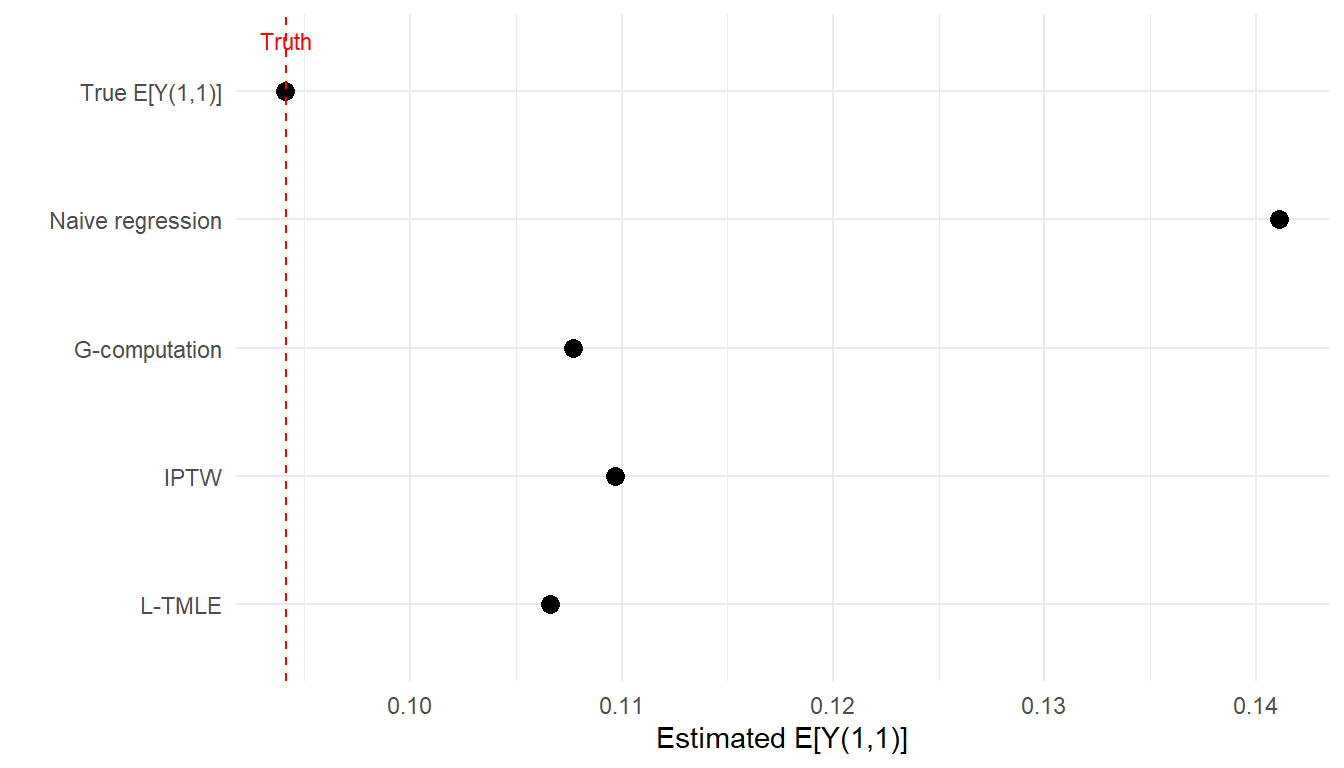
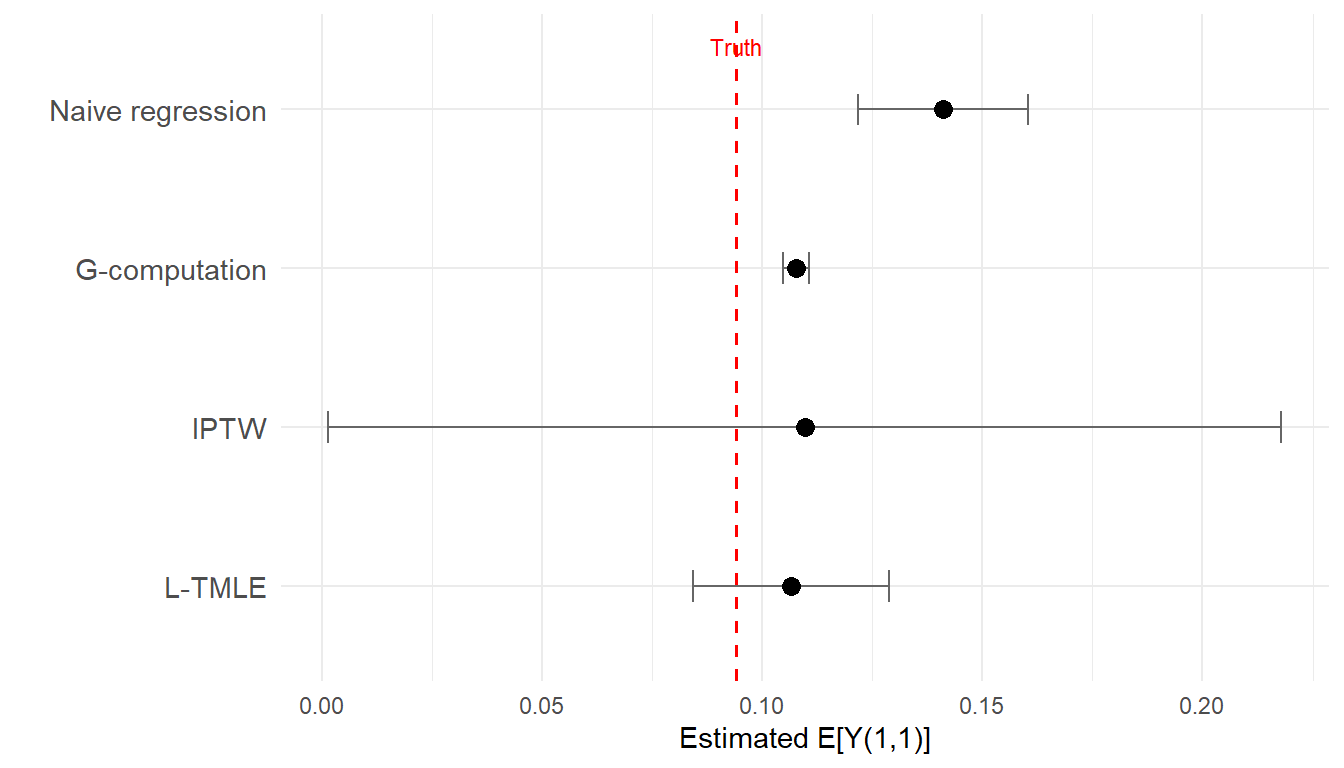
Add 95% CIs to L-TMLE estimator comparison figure

diff --git a/docs/03-09b-ltmle-by-hand.html b/docs/03-09b-ltmle-by-hand.html
@@ -656,28 +656,63 @@ H_2 = \frac{I(A_1 = 1, A_2 = 1)}{\hat{g}_1(W) \times \hat{g}_2(1, L_1, W)}
 <span id="cb9-4"><a href="#cb9-4" aria-hidden="true" tabindex="-1"></a>iptw_w <span class="ot">&lt;-</span> <span class="fu">ifelse</span>(dat<span class="sc">$</span>A1 <span class="sc">==</span> <span class="dv">1</span> <span class="sc">&amp;</span> dat<span class="sc">$</span>A2 <span class="sc">==</span> <span class="dv">1</span>, <span class="dv">1</span> <span class="sc">/</span> (g1_hat <span class="sc">*</span> g2_hat), <span class="dv">0</span>)</span>
 <span id="cb9-5"><a href="#cb9-5" aria-hidden="true" tabindex="-1"></a>iptw_est <span class="ot">&lt;-</span> <span class="fu">sum</span>(iptw_w <span class="sc">*</span> dat<span class="sc">$</span>Y) <span class="sc">/</span> <span class="fu">sum</span>(iptw_w)</span>
 <span id="cb9-6"><a href="#cb9-6" aria-hidden="true" tabindex="-1"></a></span>
-<span id="cb9-7"><a href="#cb9-7" aria-hidden="true" tabindex="-1"></a>comparison <span class="ot">&lt;-</span> <span class="fu">tibble</span>(</span>
-<span id="cb9-8"><a href="#cb9-8" aria-hidden="true" tabindex="-1"></a>  <span class="at">Method =</span> <span class="fu">c</span>(<span class="st">"True E[Y(1,1)]"</span>, <span class="st">"Naive regression"</span>, <span class="st">"G-computation"</span>, <span class="st">"IPTW"</span>, <span class="st">"L-TMLE"</span>),</span>
-<span id="cb9-9"><a href="#cb9-9" aria-hidden="true" tabindex="-1"></a>  <span class="at">Estimate =</span> <span class="fu">round</span>(<span class="fu">c</span>(true_EY_11, naive_pred_11, <span class="fu">mean</span>(Q1_A1is1), iptw_est, ltmle_est_11), <span class="dv">4</span>)</span>
-<span id="cb9-10"><a href="#cb9-10" aria-hidden="true" tabindex="-1"></a>)</span>
-<span id="cb9-11"><a href="#cb9-11" aria-hidden="true" tabindex="-1"></a>comparison <span class="sc">|&gt;</span> <span class="fu">as.data.frame</span>()</span>
-<span id="cb9-12"><a href="#cb9-12" aria-hidden="true" tabindex="-1"></a><span class="co">#&gt;             Method Estimate</span></span>
-<span id="cb9-13"><a href="#cb9-13" aria-hidden="true" tabindex="-1"></a><span class="co">#&gt; 1   True E[Y(1,1)]   0.0941</span></span>
-<span id="cb9-14"><a href="#cb9-14" aria-hidden="true" tabindex="-1"></a><span class="co">#&gt; 2 Naive regression   0.1411</span></span>
-<span id="cb9-15"><a href="#cb9-15" aria-hidden="true" tabindex="-1"></a><span class="co">#&gt; 3    G-computation   0.1077</span></span>
-<span id="cb9-16"><a href="#cb9-16" aria-hidden="true" tabindex="-1"></a><span class="co">#&gt; 4             IPTW   0.1097</span></span>
-<span id="cb9-17"><a href="#cb9-17" aria-hidden="true" tabindex="-1"></a><span class="co">#&gt; 5           L-TMLE   0.1066</span></span></code><button title="Copy to Clipboard" class="code-copy-button"><i class="bi"></i></button></pre></div>
+<span id="cb9-7"><a href="#cb9-7" aria-hidden="true" tabindex="-1"></a><span class="co"># --- Confidence intervals via influence curves ---</span></span>
+<span id="cb9-8"><a href="#cb9-8" aria-hidden="true" tabindex="-1"></a></span>
+<span id="cb9-9"><a href="#cb9-9" aria-hidden="true" tabindex="-1"></a><span class="co"># Naive regression CI (influence curve for standardized mean)</span></span>
+<span id="cb9-10"><a href="#cb9-10" aria-hidden="true" tabindex="-1"></a>naive_p1 <span class="ot">&lt;-</span> <span class="fu">predict</span>(naive_mod, <span class="at">newdata =</span> dat <span class="sc">%&gt;%</span> <span class="fu">mutate</span>(<span class="at">A1 =</span> <span class="dv">1</span>, <span class="at">A2 =</span> <span class="dv">1</span>), <span class="at">type =</span> <span class="st">"response"</span>)</span>
+<span id="cb9-11"><a href="#cb9-11" aria-hidden="true" tabindex="-1"></a>naive_resid <span class="ot">&lt;-</span> dat<span class="sc">$</span>Y <span class="sc">-</span> <span class="fu">predict</span>(naive_mod, <span class="at">type =</span> <span class="st">"response"</span>)</span>
+<span id="cb9-12"><a href="#cb9-12" aria-hidden="true" tabindex="-1"></a>naive_H <span class="ot">&lt;-</span> <span class="fu">ifelse</span>(dat<span class="sc">$</span>A1 <span class="sc">==</span> <span class="dv">1</span> <span class="sc">&amp;</span> dat<span class="sc">$</span>A2 <span class="sc">==</span> <span class="dv">1</span>, <span class="dv">1</span>, <span class="dv">0</span>)</span>
+<span id="cb9-13"><a href="#cb9-13" aria-hidden="true" tabindex="-1"></a>naive_ic <span class="ot">&lt;-</span> naive_p1 <span class="sc">-</span> naive_pred_11 <span class="sc">+</span> naive_H <span class="sc">*</span> naive_resid <span class="sc">/</span> <span class="fu">mean</span>(naive_H)</span>
+<span id="cb9-14"><a href="#cb9-14" aria-hidden="true" tabindex="-1"></a>naive_se <span class="ot">&lt;-</span> <span class="fu">sd</span>(naive_ic) <span class="sc">/</span> <span class="fu">sqrt</span>(n)</span>
+<span id="cb9-15"><a href="#cb9-15" aria-hidden="true" tabindex="-1"></a></span>
+<span id="cb9-16"><a href="#cb9-16" aria-hidden="true" tabindex="-1"></a><span class="co"># G-computation CI (use the TMLE-style IC with Q1 model)</span></span>
+<span id="cb9-17"><a href="#cb9-17" aria-hidden="true" tabindex="-1"></a>gcomp_resid <span class="ot">&lt;-</span> Q2_A2is1 <span class="sc">-</span> <span class="fu">predict</span>(Q1_mod, <span class="at">type =</span> <span class="st">"response"</span>)</span>
+<span id="cb9-18"><a href="#cb9-18" aria-hidden="true" tabindex="-1"></a>gcomp_ic <span class="ot">&lt;-</span> Q1_A1is1 <span class="sc">-</span> <span class="fu">mean</span>(Q1_A1is1) <span class="sc">+</span> <span class="fu">ifelse</span>(dat<span class="sc">$</span>A1 <span class="sc">==</span> <span class="dv">1</span>, <span class="dv">1</span>, <span class="dv">0</span>) <span class="sc">*</span> gcomp_resid <span class="sc">/</span> <span class="fu">mean</span>(dat<span class="sc">$</span>A1 <span class="sc">==</span> <span class="dv">1</span>)</span>
+<span id="cb9-19"><a href="#cb9-19" aria-hidden="true" tabindex="-1"></a>gcomp_se <span class="ot">&lt;-</span> <span class="fu">sd</span>(gcomp_ic) <span class="sc">/</span> <span class="fu">sqrt</span>(n)</span>
+<span id="cb9-20"><a href="#cb9-20" aria-hidden="true" tabindex="-1"></a></span>
+<span id="cb9-21"><a href="#cb9-21" aria-hidden="true" tabindex="-1"></a><span class="co"># IPTW CI</span></span>
+<span id="cb9-22"><a href="#cb9-22" aria-hidden="true" tabindex="-1"></a>iptw_num <span class="ot">&lt;-</span> iptw_w <span class="sc">*</span> dat<span class="sc">$</span>Y</span>
+<span id="cb9-23"><a href="#cb9-23" aria-hidden="true" tabindex="-1"></a>iptw_den <span class="ot">&lt;-</span> <span class="fu">sum</span>(iptw_w)</span>
+<span id="cb9-24"><a href="#cb9-24" aria-hidden="true" tabindex="-1"></a>iptw_ic <span class="ot">&lt;-</span> (iptw_num <span class="sc">-</span> iptw_est <span class="sc">*</span> iptw_w) <span class="sc">/</span> <span class="fu">mean</span>(iptw_w <span class="sc">&gt;</span> <span class="dv">0</span>)</span>
+<span id="cb9-25"><a href="#cb9-25" aria-hidden="true" tabindex="-1"></a>iptw_se <span class="ot">&lt;-</span> <span class="fu">sd</span>(iptw_ic[iptw_w <span class="sc">&gt;</span> <span class="dv">0</span>]) <span class="sc">/</span> <span class="fu">sqrt</span>(<span class="fu">sum</span>(iptw_w <span class="sc">&gt;</span> <span class="dv">0</span>))</span>
+<span id="cb9-26"><a href="#cb9-26" aria-hidden="true" tabindex="-1"></a></span>
+<span id="cb9-27"><a href="#cb9-27" aria-hidden="true" tabindex="-1"></a><span class="co"># L-TMLE CI (from efficient influence curve)</span></span>
+<span id="cb9-28"><a href="#cb9-28" aria-hidden="true" tabindex="-1"></a>Qstar_obs <span class="ot">&lt;-</span> <span class="fu">ifelse</span>(dat<span class="sc">$</span>A1 <span class="sc">==</span> <span class="dv">1</span>, Q1_star, Q1_star)  <span class="co"># at observed A</span></span>
+<span id="cb9-29"><a href="#cb9-29" aria-hidden="true" tabindex="-1"></a>H_obs_ltmle <span class="ot">&lt;-</span> <span class="fu">ifelse</span>(dat<span class="sc">$</span>A1 <span class="sc">==</span> <span class="dv">1</span> <span class="sc">&amp;</span> dat<span class="sc">$</span>A2 <span class="sc">==</span> <span class="dv">1</span>,</span>
+<span id="cb9-30"><a href="#cb9-30" aria-hidden="true" tabindex="-1"></a>                       <span class="dv">1</span> <span class="sc">/</span> (g1_hat <span class="sc">*</span> g2_under_a1), <span class="dv">0</span>)</span>
+<span id="cb9-31"><a href="#cb9-31" aria-hidden="true" tabindex="-1"></a>ltmle_ic <span class="ot">&lt;-</span> H_obs_ltmle <span class="sc">*</span> (dat<span class="sc">$</span>Y <span class="sc">-</span> <span class="fu">predict</span>(Q2_mod, <span class="at">type =</span> <span class="st">"response"</span>)) <span class="sc">+</span></span>
+<span id="cb9-32"><a href="#cb9-32" aria-hidden="true" tabindex="-1"></a>            Q1_star <span class="sc">-</span> ltmle_est_11</span>
+<span id="cb9-33"><a href="#cb9-33" aria-hidden="true" tabindex="-1"></a>ltmle_se <span class="ot">&lt;-</span> <span class="fu">sd</span>(ltmle_ic) <span class="sc">/</span> <span class="fu">sqrt</span>(n)</span>
+<span id="cb9-34"><a href="#cb9-34" aria-hidden="true" tabindex="-1"></a></span>
+<span id="cb9-35"><a href="#cb9-35" aria-hidden="true" tabindex="-1"></a>comparison <span class="ot">&lt;-</span> <span class="fu">tibble</span>(</span>
+<span id="cb9-36"><a href="#cb9-36" aria-hidden="true" tabindex="-1"></a>  <span class="at">Method =</span> <span class="fu">c</span>(<span class="st">"True E[Y(1,1)]"</span>, <span class="st">"Naive regression"</span>, <span class="st">"G-computation"</span>, <span class="st">"IPTW"</span>, <span class="st">"L-TMLE"</span>),</span>
+<span id="cb9-37"><a href="#cb9-37" aria-hidden="true" tabindex="-1"></a>  <span class="at">Estimate =</span> <span class="fu">c</span>(true_EY_11, naive_pred_11, <span class="fu">mean</span>(Q1_A1is1), iptw_est, ltmle_est_11),</span>
+<span id="cb9-38"><a href="#cb9-38" aria-hidden="true" tabindex="-1"></a>  <span class="at">SE =</span> <span class="fu">c</span>(<span class="cn">NA</span>, naive_se, gcomp_se, iptw_se, ltmle_se),</span>
+<span id="cb9-39"><a href="#cb9-39" aria-hidden="true" tabindex="-1"></a>  <span class="at">Lower =</span> Estimate <span class="sc">-</span> <span class="fl">1.96</span> <span class="sc">*</span> SE,</span>
+<span id="cb9-40"><a href="#cb9-40" aria-hidden="true" tabindex="-1"></a>  <span class="at">Upper =</span> Estimate <span class="sc">+</span> <span class="fl">1.96</span> <span class="sc">*</span> SE</span>
+<span id="cb9-41"><a href="#cb9-41" aria-hidden="true" tabindex="-1"></a>)</span>
+<span id="cb9-42"><a href="#cb9-42" aria-hidden="true" tabindex="-1"></a>comparison <span class="sc">|&gt;</span> <span class="fu">mutate</span>(<span class="fu">across</span>(<span class="fu">where</span>(is.numeric), <span class="sc">~</span> <span class="fu">round</span>(.x, <span class="dv">4</span>))) <span class="sc">|&gt;</span> <span class="fu">as.data.frame</span>()</span>
+<span id="cb9-43"><a href="#cb9-43" aria-hidden="true" tabindex="-1"></a><span class="co">#&gt;             Method Estimate     SE  Lower  Upper</span></span>
+<span id="cb9-44"><a href="#cb9-44" aria-hidden="true" tabindex="-1"></a><span class="co">#&gt; 1   True E[Y(1,1)]   0.0941     NA     NA     NA</span></span>
+<span id="cb9-45"><a href="#cb9-45" aria-hidden="true" tabindex="-1"></a><span class="co">#&gt; 2 Naive regression   0.1411 0.0098 0.1219 0.1604</span></span>
+<span id="cb9-46"><a href="#cb9-46" aria-hidden="true" tabindex="-1"></a><span class="co">#&gt; 3    G-computation   0.1077 0.0015 0.1048 0.1107</span></span>
+<span id="cb9-47"><a href="#cb9-47" aria-hidden="true" tabindex="-1"></a><span class="co">#&gt; 4             IPTW   0.1097 0.0552 0.0014 0.2179</span></span>
+<span id="cb9-48"><a href="#cb9-48" aria-hidden="true" tabindex="-1"></a><span class="co">#&gt; 5           L-TMLE   0.1066 0.0114 0.0843 0.1289</span></span></code><button title="Copy to Clipboard" class="code-copy-button"><i class="bi"></i></button></pre></div>
 </details>
 </div>
 <div class="cell" data-layout-align="center">
 <details class="code-fold">
 <summary>Show code</summary>
-<div class="sourceCode cell-code" id="cb10"><pre class="sourceCode r code-with-copy"><code class="sourceCode r"><span id="cb10-1"><a href="#cb10-1" aria-hidden="true" tabindex="-1"></a><span class="fu">ggplot</span>(comparison, <span class="fu">aes</span>(<span class="at">x =</span> Estimate, <span class="at">y =</span> <span class="fu">factor</span>(Method, <span class="at">levels =</span> <span class="fu">rev</span>(Method)))) <span class="sc">+</span></span>
-<span id="cb10-2"><a href="#cb10-2" aria-hidden="true" tabindex="-1"></a>  <span class="fu">geom_point</span>(<span class="at">size =</span> <span class="dv">3</span>) <span class="sc">+</span></span>
-<span id="cb10-3"><a href="#cb10-3" aria-hidden="true" tabindex="-1"></a>  <span class="fu">geom_vline</span>(<span class="at">xintercept =</span> true_EY_11, <span class="at">linetype =</span> <span class="st">"dashed"</span>, <span class="at">color =</span> <span class="st">"red"</span>) <span class="sc">+</span></span>
-<span id="cb10-4"><a href="#cb10-4" aria-hidden="true" tabindex="-1"></a>  <span class="fu">annotate</span>(<span class="st">"text"</span>, <span class="at">x =</span> true_EY_11, <span class="at">y =</span> <span class="fl">5.4</span>, <span class="at">label =</span> <span class="st">"Truth"</span>, <span class="at">color =</span> <span class="st">"red"</span>, <span class="at">size =</span> <span class="dv">3</span>) <span class="sc">+</span></span>
-<span id="cb10-5"><a href="#cb10-5" aria-hidden="true" tabindex="-1"></a>  <span class="fu">labs</span>(<span class="at">x =</span> <span class="st">"Estimated E[Y(1,1)]"</span>, <span class="at">y =</span> <span class="st">""</span>) <span class="sc">+</span></span>
-<span id="cb10-6"><a href="#cb10-6" aria-hidden="true" tabindex="-1"></a>  <span class="fu">theme_minimal</span>()</span></code><button title="Copy to Clipboard" class="code-copy-button"><i class="bi"></i></button></pre></div>
+<div class="sourceCode cell-code" id="cb10"><pre class="sourceCode r code-with-copy"><code class="sourceCode r"><span id="cb10-1"><a href="#cb10-1" aria-hidden="true" tabindex="-1"></a>plot_df <span class="ot">&lt;-</span> comparison <span class="sc">|&gt;</span> <span class="fu">filter</span>(Method <span class="sc">!=</span> <span class="st">"True E[Y(1,1)]"</span>)</span>
+<span id="cb10-2"><a href="#cb10-2" aria-hidden="true" tabindex="-1"></a></span>
+<span id="cb10-3"><a href="#cb10-3" aria-hidden="true" tabindex="-1"></a><span class="fu">ggplot</span>(plot_df, <span class="fu">aes</span>(<span class="at">x =</span> Estimate, <span class="at">y =</span> <span class="fu">factor</span>(Method, <span class="at">levels =</span> <span class="fu">rev</span>(plot_df<span class="sc">$</span>Method)))) <span class="sc">+</span></span>
+<span id="cb10-4"><a href="#cb10-4" aria-hidden="true" tabindex="-1"></a>  <span class="fu">geom_errorbarh</span>(<span class="fu">aes</span>(<span class="at">xmin =</span> Lower, <span class="at">xmax =</span> Upper), <span class="at">height =</span> <span class="fl">0.2</span>, <span class="at">color =</span> <span class="st">"grey40"</span>) <span class="sc">+</span></span>
+<span id="cb10-5"><a href="#cb10-5" aria-hidden="true" tabindex="-1"></a>  <span class="fu">geom_point</span>(<span class="at">size =</span> <span class="dv">3</span>) <span class="sc">+</span></span>
+<span id="cb10-6"><a href="#cb10-6" aria-hidden="true" tabindex="-1"></a>  <span class="fu">geom_vline</span>(<span class="at">xintercept =</span> true_EY_11, <span class="at">linetype =</span> <span class="st">"dashed"</span>, <span class="at">color =</span> <span class="st">"red"</span>, <span class="at">linewidth =</span> <span class="fl">0.7</span>) <span class="sc">+</span></span>
+<span id="cb10-7"><a href="#cb10-7" aria-hidden="true" tabindex="-1"></a>  <span class="fu">annotate</span>(<span class="st">"text"</span>, <span class="at">x =</span> true_EY_11, <span class="at">y =</span> <span class="fl">4.4</span>, <span class="at">label =</span> <span class="st">"Truth"</span>, <span class="at">color =</span> <span class="st">"red"</span>, <span class="at">size =</span> <span class="dv">3</span>) <span class="sc">+</span></span>
+<span id="cb10-8"><a href="#cb10-8" aria-hidden="true" tabindex="-1"></a>  <span class="fu">labs</span>(<span class="at">x =</span> <span class="st">"Estimated E[Y(1,1)]"</span>, <span class="at">y =</span> <span class="st">""</span>) <span class="sc">+</span></span>
+<span id="cb10-9"><a href="#cb10-9" aria-hidden="true" tabindex="-1"></a>  <span class="fu">theme_minimal</span>() <span class="sc">+</span></span>
+<span id="cb10-10"><a href="#cb10-10" aria-hidden="true" tabindex="-1"></a>  <span class="fu">theme</span>(<span class="at">axis.text.y =</span> <span class="fu">element_text</span>(<span class="at">size =</span> <span class="dv">11</span>))</span></code><button title="Copy to Clipboard" class="code-copy-button"><i class="bi"></i></button></pre></div>
 </details>
 <div class="cell-output-display">
 <div id="fig-estimator-comparison" class="quarto-float quarto-figure quarto-figure-center anchored" data-fig-align="center">
@@ -686,7 +721,7 @@ H_2 = \frac{I(A_1 = 1, A_2 = 1)}{\hat{g}_1(W) \times \hat{g}_2(1, L_1, W)}
 <img src="03-09b-ltmle-by-hand_files/figure-html/fig-estimator-comparison-1.png" class="img-fluid quarto-figure quarto-figure-center figure-img" width="672">
 </div>
 <figcaption class="quarto-float-caption-bottom quarto-float-caption quarto-float-fig" id="fig-estimator-comparison-caption-0ceaefa1-69ba-4598-a22c-09a6ac19f8ca">
-Figure&nbsp;17.1: Comparison of estimators for the counterfactual failure rate under sustained high adherence.
+Figure&nbsp;17.1: Comparison of estimators for the counterfactual failure rate under sustained high adherence. Error bars show 95% confidence intervals. The dashed red line marks the true value.
 </figcaption>
 </figure>
 </div>
@@ -1413,57 +1448,92 @@ window.document.addEventListener("DOMContentLoaded", function (event) {
 <span id="cb11-192"><a href="#cb11-192" aria-hidden="true" tabindex="-1"></a>iptw_w <span class="ot">&lt;-</span> <span class="fu">ifelse</span>(dat<span class="sc">$</span>A1 <span class="sc">==</span> <span class="dv">1</span> <span class="sc">&amp;</span> dat<span class="sc">$</span>A2 <span class="sc">==</span> <span class="dv">1</span>, <span class="dv">1</span> <span class="sc">/</span> (g1_hat <span class="sc">*</span> g2_hat), <span class="dv">0</span>)</span>
 <span id="cb11-193"><a href="#cb11-193" aria-hidden="true" tabindex="-1"></a>iptw_est <span class="ot">&lt;-</span> <span class="fu">sum</span>(iptw_w <span class="sc">*</span> dat<span class="sc">$</span>Y) <span class="sc">/</span> <span class="fu">sum</span>(iptw_w)</span>
 <span id="cb11-194"><a href="#cb11-194" aria-hidden="true" tabindex="-1"></a></span>
-<span id="cb11-195"><a href="#cb11-195" aria-hidden="true" tabindex="-1"></a>comparison <span class="ot">&lt;-</span> <span class="fu">tibble</span>(</span>
-<span id="cb11-196"><a href="#cb11-196" aria-hidden="true" tabindex="-1"></a>  <span class="at">Method =</span> <span class="fu">c</span>(<span class="st">"True E[Y(1,1)]"</span>, <span class="st">"Naive regression"</span>, <span class="st">"G-computation"</span>, <span class="st">"IPTW"</span>, <span class="st">"L-TMLE"</span>),</span>
-<span id="cb11-197"><a href="#cb11-197" aria-hidden="true" tabindex="-1"></a>  <span class="at">Estimate =</span> <span class="fu">round</span>(<span class="fu">c</span>(true_EY_11, naive_pred_11, <span class="fu">mean</span>(Q1_A1is1), iptw_est, ltmle_est_11), <span class="dv">4</span>)</span>
-<span id="cb11-198"><a href="#cb11-198" aria-hidden="true" tabindex="-1"></a>)</span>
-<span id="cb11-199"><a href="#cb11-199" aria-hidden="true" tabindex="-1"></a>comparison <span class="sc">|&gt;</span> <span class="fu">as.data.frame</span>()</span>
-<span id="cb11-200"><a href="#cb11-200" aria-hidden="true" tabindex="-1"></a><span class="in">```</span></span>
-<span id="cb11-201"><a href="#cb11-201" aria-hidden="true" tabindex="-1"></a></span>
-<span id="cb11-204"><a href="#cb11-204" aria-hidden="true" tabindex="-1"></a><span class="in">```{r}</span></span>
-<span id="cb11-205"><a href="#cb11-205" aria-hidden="true" tabindex="-1"></a><span class="co">#| label: fig-estimator-comparison</span></span>
-<span id="cb11-206"><a href="#cb11-206" aria-hidden="true" tabindex="-1"></a><span class="co">#| fig-cap: "Comparison of estimators for the counterfactual failure rate under sustained high adherence."</span></span>
-<span id="cb11-207"><a href="#cb11-207" aria-hidden="true" tabindex="-1"></a><span class="co">#| code-fold: true</span></span>
-<span id="cb11-208"><a href="#cb11-208" aria-hidden="true" tabindex="-1"></a><span class="fu">ggplot</span>(comparison, <span class="fu">aes</span>(<span class="at">x =</span> Estimate, <span class="at">y =</span> <span class="fu">factor</span>(Method, <span class="at">levels =</span> <span class="fu">rev</span>(Method)))) <span class="sc">+</span></span>
-<span id="cb11-209"><a href="#cb11-209" aria-hidden="true" tabindex="-1"></a>  <span class="fu">geom_point</span>(<span class="at">size =</span> <span class="dv">3</span>) <span class="sc">+</span></span>
-<span id="cb11-210"><a href="#cb11-210" aria-hidden="true" tabindex="-1"></a>  <span class="fu">geom_vline</span>(<span class="at">xintercept =</span> true_EY_11, <span class="at">linetype =</span> <span class="st">"dashed"</span>, <span class="at">color =</span> <span class="st">"red"</span>) <span class="sc">+</span></span>
-<span id="cb11-211"><a href="#cb11-211" aria-hidden="true" tabindex="-1"></a>  <span class="fu">annotate</span>(<span class="st">"text"</span>, <span class="at">x =</span> true_EY_11, <span class="at">y =</span> <span class="fl">5.4</span>, <span class="at">label =</span> <span class="st">"Truth"</span>, <span class="at">color =</span> <span class="st">"red"</span>, <span class="at">size =</span> <span class="dv">3</span>) <span class="sc">+</span></span>
-<span id="cb11-212"><a href="#cb11-212" aria-hidden="true" tabindex="-1"></a>  <span class="fu">labs</span>(<span class="at">x =</span> <span class="st">"Estimated E[Y(1,1)]"</span>, <span class="at">y =</span> <span class="st">""</span>) <span class="sc">+</span></span>
-<span id="cb11-213"><a href="#cb11-213" aria-hidden="true" tabindex="-1"></a>  <span class="fu">theme_minimal</span>()</span>
-<span id="cb11-214"><a href="#cb11-214" aria-hidden="true" tabindex="-1"></a><span class="in">```</span></span>
-<span id="cb11-215"><a href="#cb11-215" aria-hidden="true" tabindex="-1"></a></span>
-<span id="cb11-216"><a href="#cb11-216" aria-hidden="true" tabindex="-1"></a></span>
-<span id="cb11-217"><a href="#cb11-217" aria-hidden="true" tabindex="-1"></a><span class="fu"># Sequential double robustness</span></span>
-<span id="cb11-218"><a href="#cb11-218" aria-hidden="true" tabindex="-1"></a></span>
-<span id="cb11-219"><a href="#cb11-219" aria-hidden="true" tabindex="-1"></a>At each time point, L-TMLE is consistent if either the outcome model or the treatment model is correctly specified:</span>
-<span id="cb11-220"><a href="#cb11-220" aria-hidden="true" tabindex="-1"></a></span>
-<span id="cb11-221"><a href="#cb11-221" aria-hidden="true" tabindex="-1"></a>| Correct at time 2 | Correct at time 1 | L-TMLE consistent? |</span>
-<span id="cb11-222"><a href="#cb11-222" aria-hidden="true" tabindex="-1"></a>|---|---|---|</span>
-<span id="cb11-223"><a href="#cb11-223" aria-hidden="true" tabindex="-1"></a>| $Q_2$ only | $Q_1$ only | Yes |</span>
-<span id="cb11-224"><a href="#cb11-224" aria-hidden="true" tabindex="-1"></a>| $g_2$ only | $g_1$ only | Yes |</span>
-<span id="cb11-225"><a href="#cb11-225" aria-hidden="true" tabindex="-1"></a>| $Q_2$ only | $g_1$ only | Yes |</span>
-<span id="cb11-226"><a href="#cb11-226" aria-hidden="true" tabindex="-1"></a>| $g_2$ only | $Q_1$ only | Yes |</span>
-<span id="cb11-227"><a href="#cb11-227" aria-hidden="true" tabindex="-1"></a>| Neither | Anything | Not guaranteed |</span>
-<span id="cb11-228"><a href="#cb11-228" aria-hidden="true" tabindex="-1"></a></span>
-<span id="cb11-229"><a href="#cb11-229" aria-hidden="true" tabindex="-1"></a></span>
-<span id="cb11-230"><a href="#cb11-230" aria-hidden="true" tabindex="-1"></a><span class="fu"># Scaling to T time points</span></span>
-<span id="cb11-231"><a href="#cb11-231" aria-hidden="true" tabindex="-1"></a></span>
-<span id="cb11-232"><a href="#cb11-232" aria-hidden="true" tabindex="-1"></a>With $T$ time points, the same pattern applies:</span>
-<span id="cb11-233"><a href="#cb11-233" aria-hidden="true" tabindex="-1"></a></span>
-<span id="cb11-234"><a href="#cb11-234" aria-hidden="true" tabindex="-1"></a><span class="ss">1. </span>Estimate $\hat{g}_t$ for $t = 1, \ldots, T$.</span>
-<span id="cb11-235"><a href="#cb11-235" aria-hidden="true" tabindex="-1"></a><span class="ss">2. </span>Start at time $T$: fit $\hat{Q}_T$, target with $H_T$.</span>
-<span id="cb11-236"><a href="#cb11-236" aria-hidden="true" tabindex="-1"></a><span class="ss">3. </span>Move to $T-1$: fit $\hat{Q}_{T-1}$ using targeted $\hat{Q}_T^*$ as outcome, target with $H_{T-1}$.</span>
-<span id="cb11-237"><a href="#cb11-237" aria-hidden="true" tabindex="-1"></a><span class="ss">4. </span>Repeat until $\hat{Q}_1^*$.</span>
-<span id="cb11-238"><a href="#cb11-238" aria-hidden="true" tabindex="-1"></a><span class="ss">5. </span>Final estimate: $\hat{\psi} = \frac{1}{n}\sum_i \hat{Q}_1^*(a_1, W_i)$.</span>
-<span id="cb11-239"><a href="#cb11-239" aria-hidden="true" tabindex="-1"></a></span>
-<span id="cb11-240"><a href="#cb11-240" aria-hidden="true" tabindex="-1"></a>Each backwards step conditions on $L_t$ where it confounds future treatment, and integrates it out where it mediates past treatment.</span>
-<span id="cb11-241"><a href="#cb11-241" aria-hidden="true" tabindex="-1"></a></span>
-<span id="cb11-242"><a href="#cb11-242" aria-hidden="true" tabindex="-1"></a></span>
-<span id="cb11-243"><a href="#cb11-243" aria-hidden="true" tabindex="-1"></a><span class="fu">## Sources</span></span>
-<span id="cb11-244"><a href="#cb11-244" aria-hidden="true" tabindex="-1"></a></span>
-<span id="cb11-245"><a href="#cb11-245" aria-hidden="true" tabindex="-1"></a><span class="ss">- </span>Petersen ML, Schwab J, Gruber S, et al. (2014). Targeted maximum likelihood estimation for dynamic and static longitudinal marginal structural working models. *J Causal Inference* 2(2):147-185.</span>
-<span id="cb11-246"><a href="#cb11-246" aria-hidden="true" tabindex="-1"></a><span class="ss">- </span>van der Laan MJ, Gruber S (2012). Targeted minimum loss based estimation of causal effects of multiple time point interventions. *Int J Biostat* 8(1):Article 9.</span>
-<span id="cb11-247"><a href="#cb11-247" aria-hidden="true" tabindex="-1"></a><span class="ss">- </span>Lendle SD, Schwab J, Petersen ML, van der Laan MJ (2017). ltmle: An R package implementing targeted minimum loss-based estimation for longitudinal data. *J Stat Softw* 81(1):1-21.</span>
+<span id="cb11-195"><a href="#cb11-195" aria-hidden="true" tabindex="-1"></a><span class="co"># --- Confidence intervals via influence curves ---</span></span>
+<span id="cb11-196"><a href="#cb11-196" aria-hidden="true" tabindex="-1"></a></span>
+<span id="cb11-197"><a href="#cb11-197" aria-hidden="true" tabindex="-1"></a><span class="co"># Naive regression CI (influence curve for standardized mean)</span></span>
+<span id="cb11-198"><a href="#cb11-198" aria-hidden="true" tabindex="-1"></a>naive_p1 <span class="ot">&lt;-</span> <span class="fu">predict</span>(naive_mod, <span class="at">newdata =</span> dat <span class="sc">%&gt;%</span> <span class="fu">mutate</span>(<span class="at">A1 =</span> <span class="dv">1</span>, <span class="at">A2 =</span> <span class="dv">1</span>), <span class="at">type =</span> <span class="st">"response"</span>)</span>
+<span id="cb11-199"><a href="#cb11-199" aria-hidden="true" tabindex="-1"></a>naive_resid <span class="ot">&lt;-</span> dat<span class="sc">$</span>Y <span class="sc">-</span> <span class="fu">predict</span>(naive_mod, <span class="at">type =</span> <span class="st">"response"</span>)</span>
+<span id="cb11-200"><a href="#cb11-200" aria-hidden="true" tabindex="-1"></a>naive_H <span class="ot">&lt;-</span> <span class="fu">ifelse</span>(dat<span class="sc">$</span>A1 <span class="sc">==</span> <span class="dv">1</span> <span class="sc">&amp;</span> dat<span class="sc">$</span>A2 <span class="sc">==</span> <span class="dv">1</span>, <span class="dv">1</span>, <span class="dv">0</span>)</span>
+<span id="cb11-201"><a href="#cb11-201" aria-hidden="true" tabindex="-1"></a>naive_ic <span class="ot">&lt;-</span> naive_p1 <span class="sc">-</span> naive_pred_11 <span class="sc">+</span> naive_H <span class="sc">*</span> naive_resid <span class="sc">/</span> <span class="fu">mean</span>(naive_H)</span>
+<span id="cb11-202"><a href="#cb11-202" aria-hidden="true" tabindex="-1"></a>naive_se <span class="ot">&lt;-</span> <span class="fu">sd</span>(naive_ic) <span class="sc">/</span> <span class="fu">sqrt</span>(n)</span>
+<span id="cb11-203"><a href="#cb11-203" aria-hidden="true" tabindex="-1"></a></span>
+<span id="cb11-204"><a href="#cb11-204" aria-hidden="true" tabindex="-1"></a><span class="co"># G-computation CI (use the TMLE-style IC with Q1 model)</span></span>
+<span id="cb11-205"><a href="#cb11-205" aria-hidden="true" tabindex="-1"></a>gcomp_resid <span class="ot">&lt;-</span> Q2_A2is1 <span class="sc">-</span> <span class="fu">predict</span>(Q1_mod, <span class="at">type =</span> <span class="st">"response"</span>)</span>
+<span id="cb11-206"><a href="#cb11-206" aria-hidden="true" tabindex="-1"></a>gcomp_ic <span class="ot">&lt;-</span> Q1_A1is1 <span class="sc">-</span> <span class="fu">mean</span>(Q1_A1is1) <span class="sc">+</span> <span class="fu">ifelse</span>(dat<span class="sc">$</span>A1 <span class="sc">==</span> <span class="dv">1</span>, <span class="dv">1</span>, <span class="dv">0</span>) <span class="sc">*</span> gcomp_resid <span class="sc">/</span> <span class="fu">mean</span>(dat<span class="sc">$</span>A1 <span class="sc">==</span> <span class="dv">1</span>)</span>
+<span id="cb11-207"><a href="#cb11-207" aria-hidden="true" tabindex="-1"></a>gcomp_se <span class="ot">&lt;-</span> <span class="fu">sd</span>(gcomp_ic) <span class="sc">/</span> <span class="fu">sqrt</span>(n)</span>
+<span id="cb11-208"><a href="#cb11-208" aria-hidden="true" tabindex="-1"></a></span>
+<span id="cb11-209"><a href="#cb11-209" aria-hidden="true" tabindex="-1"></a><span class="co"># IPTW CI</span></span>
+<span id="cb11-210"><a href="#cb11-210" aria-hidden="true" tabindex="-1"></a>iptw_num <span class="ot">&lt;-</span> iptw_w <span class="sc">*</span> dat<span class="sc">$</span>Y</span>
+<span id="cb11-211"><a href="#cb11-211" aria-hidden="true" tabindex="-1"></a>iptw_den <span class="ot">&lt;-</span> <span class="fu">sum</span>(iptw_w)</span>
+<span id="cb11-212"><a href="#cb11-212" aria-hidden="true" tabindex="-1"></a>iptw_ic <span class="ot">&lt;-</span> (iptw_num <span class="sc">-</span> iptw_est <span class="sc">*</span> iptw_w) <span class="sc">/</span> <span class="fu">mean</span>(iptw_w <span class="sc">&gt;</span> <span class="dv">0</span>)</span>
+<span id="cb11-213"><a href="#cb11-213" aria-hidden="true" tabindex="-1"></a>iptw_se <span class="ot">&lt;-</span> <span class="fu">sd</span>(iptw_ic[iptw_w <span class="sc">&gt;</span> <span class="dv">0</span>]) <span class="sc">/</span> <span class="fu">sqrt</span>(<span class="fu">sum</span>(iptw_w <span class="sc">&gt;</span> <span class="dv">0</span>))</span>
+<span id="cb11-214"><a href="#cb11-214" aria-hidden="true" tabindex="-1"></a></span>
+<span id="cb11-215"><a href="#cb11-215" aria-hidden="true" tabindex="-1"></a><span class="co"># L-TMLE CI (from efficient influence curve)</span></span>
+<span id="cb11-216"><a href="#cb11-216" aria-hidden="true" tabindex="-1"></a>Qstar_obs <span class="ot">&lt;-</span> <span class="fu">ifelse</span>(dat<span class="sc">$</span>A1 <span class="sc">==</span> <span class="dv">1</span>, Q1_star, Q1_star)  <span class="co"># at observed A</span></span>
+<span id="cb11-217"><a href="#cb11-217" aria-hidden="true" tabindex="-1"></a>H_obs_ltmle <span class="ot">&lt;-</span> <span class="fu">ifelse</span>(dat<span class="sc">$</span>A1 <span class="sc">==</span> <span class="dv">1</span> <span class="sc">&amp;</span> dat<span class="sc">$</span>A2 <span class="sc">==</span> <span class="dv">1</span>,</span>
+<span id="cb11-218"><a href="#cb11-218" aria-hidden="true" tabindex="-1"></a>                       <span class="dv">1</span> <span class="sc">/</span> (g1_hat <span class="sc">*</span> g2_under_a1), <span class="dv">0</span>)</span>
+<span id="cb11-219"><a href="#cb11-219" aria-hidden="true" tabindex="-1"></a>ltmle_ic <span class="ot">&lt;-</span> H_obs_ltmle <span class="sc">*</span> (dat<span class="sc">$</span>Y <span class="sc">-</span> <span class="fu">predict</span>(Q2_mod, <span class="at">type =</span> <span class="st">"response"</span>)) <span class="sc">+</span></span>
+<span id="cb11-220"><a href="#cb11-220" aria-hidden="true" tabindex="-1"></a>            Q1_star <span class="sc">-</span> ltmle_est_11</span>
+<span id="cb11-221"><a href="#cb11-221" aria-hidden="true" tabindex="-1"></a>ltmle_se <span class="ot">&lt;-</span> <span class="fu">sd</span>(ltmle_ic) <span class="sc">/</span> <span class="fu">sqrt</span>(n)</span>
+<span id="cb11-222"><a href="#cb11-222" aria-hidden="true" tabindex="-1"></a></span>
+<span id="cb11-223"><a href="#cb11-223" aria-hidden="true" tabindex="-1"></a>comparison <span class="ot">&lt;-</span> <span class="fu">tibble</span>(</span>
+<span id="cb11-224"><a href="#cb11-224" aria-hidden="true" tabindex="-1"></a>  <span class="at">Method =</span> <span class="fu">c</span>(<span class="st">"True E[Y(1,1)]"</span>, <span class="st">"Naive regression"</span>, <span class="st">"G-computation"</span>, <span class="st">"IPTW"</span>, <span class="st">"L-TMLE"</span>),</span>
+<span id="cb11-225"><a href="#cb11-225" aria-hidden="true" tabindex="-1"></a>  <span class="at">Estimate =</span> <span class="fu">c</span>(true_EY_11, naive_pred_11, <span class="fu">mean</span>(Q1_A1is1), iptw_est, ltmle_est_11),</span>
+<span id="cb11-226"><a href="#cb11-226" aria-hidden="true" tabindex="-1"></a>  <span class="at">SE =</span> <span class="fu">c</span>(<span class="cn">NA</span>, naive_se, gcomp_se, iptw_se, ltmle_se),</span>
+<span id="cb11-227"><a href="#cb11-227" aria-hidden="true" tabindex="-1"></a>  <span class="at">Lower =</span> Estimate <span class="sc">-</span> <span class="fl">1.96</span> <span class="sc">*</span> SE,</span>
+<span id="cb11-228"><a href="#cb11-228" aria-hidden="true" tabindex="-1"></a>  <span class="at">Upper =</span> Estimate <span class="sc">+</span> <span class="fl">1.96</span> <span class="sc">*</span> SE</span>
+<span id="cb11-229"><a href="#cb11-229" aria-hidden="true" tabindex="-1"></a>)</span>
+<span id="cb11-230"><a href="#cb11-230" aria-hidden="true" tabindex="-1"></a>comparison <span class="sc">|&gt;</span> <span class="fu">mutate</span>(<span class="fu">across</span>(<span class="fu">where</span>(is.numeric), <span class="sc">~</span> <span class="fu">round</span>(.x, <span class="dv">4</span>))) <span class="sc">|&gt;</span> <span class="fu">as.data.frame</span>()</span>
+<span id="cb11-231"><a href="#cb11-231" aria-hidden="true" tabindex="-1"></a><span class="in">```</span></span>
+<span id="cb11-232"><a href="#cb11-232" aria-hidden="true" tabindex="-1"></a></span>
+<span id="cb11-235"><a href="#cb11-235" aria-hidden="true" tabindex="-1"></a><span class="in">```{r}</span></span>
+<span id="cb11-236"><a href="#cb11-236" aria-hidden="true" tabindex="-1"></a><span class="co">#| label: fig-estimator-comparison</span></span>
+<span id="cb11-237"><a href="#cb11-237" aria-hidden="true" tabindex="-1"></a><span class="co">#| fig-cap: "Comparison of estimators for the counterfactual failure rate under sustained high adherence. Error bars show 95% confidence intervals. The dashed red line marks the true value."</span></span>
+<span id="cb11-238"><a href="#cb11-238" aria-hidden="true" tabindex="-1"></a><span class="co">#| code-fold: true</span></span>
+<span id="cb11-239"><a href="#cb11-239" aria-hidden="true" tabindex="-1"></a>plot_df <span class="ot">&lt;-</span> comparison <span class="sc">|&gt;</span> <span class="fu">filter</span>(Method <span class="sc">!=</span> <span class="st">"True E[Y(1,1)]"</span>)</span>
+<span id="cb11-240"><a href="#cb11-240" aria-hidden="true" tabindex="-1"></a></span>
+<span id="cb11-241"><a href="#cb11-241" aria-hidden="true" tabindex="-1"></a><span class="fu">ggplot</span>(plot_df, <span class="fu">aes</span>(<span class="at">x =</span> Estimate, <span class="at">y =</span> <span class="fu">factor</span>(Method, <span class="at">levels =</span> <span class="fu">rev</span>(plot_df<span class="sc">$</span>Method)))) <span class="sc">+</span></span>
+<span id="cb11-242"><a href="#cb11-242" aria-hidden="true" tabindex="-1"></a>  <span class="fu">geom_errorbarh</span>(<span class="fu">aes</span>(<span class="at">xmin =</span> Lower, <span class="at">xmax =</span> Upper), <span class="at">height =</span> <span class="fl">0.2</span>, <span class="at">color =</span> <span class="st">"grey40"</span>) <span class="sc">+</span></span>
+<span id="cb11-243"><a href="#cb11-243" aria-hidden="true" tabindex="-1"></a>  <span class="fu">geom_point</span>(<span class="at">size =</span> <span class="dv">3</span>) <span class="sc">+</span></span>
+<span id="cb11-244"><a href="#cb11-244" aria-hidden="true" tabindex="-1"></a>  <span class="fu">geom_vline</span>(<span class="at">xintercept =</span> true_EY_11, <span class="at">linetype =</span> <span class="st">"dashed"</span>, <span class="at">color =</span> <span class="st">"red"</span>, <span class="at">linewidth =</span> <span class="fl">0.7</span>) <span class="sc">+</span></span>
+<span id="cb11-245"><a href="#cb11-245" aria-hidden="true" tabindex="-1"></a>  <span class="fu">annotate</span>(<span class="st">"text"</span>, <span class="at">x =</span> true_EY_11, <span class="at">y =</span> <span class="fl">4.4</span>, <span class="at">label =</span> <span class="st">"Truth"</span>, <span class="at">color =</span> <span class="st">"red"</span>, <span class="at">size =</span> <span class="dv">3</span>) <span class="sc">+</span></span>
+<span id="cb11-246"><a href="#cb11-246" aria-hidden="true" tabindex="-1"></a>  <span class="fu">labs</span>(<span class="at">x =</span> <span class="st">"Estimated E[Y(1,1)]"</span>, <span class="at">y =</span> <span class="st">""</span>) <span class="sc">+</span></span>
+<span id="cb11-247"><a href="#cb11-247" aria-hidden="true" tabindex="-1"></a>  <span class="fu">theme_minimal</span>() <span class="sc">+</span></span>
+<span id="cb11-248"><a href="#cb11-248" aria-hidden="true" tabindex="-1"></a>  <span class="fu">theme</span>(<span class="at">axis.text.y =</span> <span class="fu">element_text</span>(<span class="at">size =</span> <span class="dv">11</span>))</span>
+<span id="cb11-249"><a href="#cb11-249" aria-hidden="true" tabindex="-1"></a><span class="in">```</span></span>
+<span id="cb11-250"><a href="#cb11-250" aria-hidden="true" tabindex="-1"></a></span>
+<span id="cb11-251"><a href="#cb11-251" aria-hidden="true" tabindex="-1"></a></span>
+<span id="cb11-252"><a href="#cb11-252" aria-hidden="true" tabindex="-1"></a><span class="fu"># Sequential double robustness</span></span>
+<span id="cb11-253"><a href="#cb11-253" aria-hidden="true" tabindex="-1"></a></span>
+<span id="cb11-254"><a href="#cb11-254" aria-hidden="true" tabindex="-1"></a>At each time point, L-TMLE is consistent if either the outcome model or the treatment model is correctly specified:</span>
+<span id="cb11-255"><a href="#cb11-255" aria-hidden="true" tabindex="-1"></a></span>
+<span id="cb11-256"><a href="#cb11-256" aria-hidden="true" tabindex="-1"></a>| Correct at time 2 | Correct at time 1 | L-TMLE consistent? |</span>
+<span id="cb11-257"><a href="#cb11-257" aria-hidden="true" tabindex="-1"></a>|---|---|---|</span>
+<span id="cb11-258"><a href="#cb11-258" aria-hidden="true" tabindex="-1"></a>| $Q_2$ only | $Q_1$ only | Yes |</span>
+<span id="cb11-259"><a href="#cb11-259" aria-hidden="true" tabindex="-1"></a>| $g_2$ only | $g_1$ only | Yes |</span>
+<span id="cb11-260"><a href="#cb11-260" aria-hidden="true" tabindex="-1"></a>| $Q_2$ only | $g_1$ only | Yes |</span>
+<span id="cb11-261"><a href="#cb11-261" aria-hidden="true" tabindex="-1"></a>| $g_2$ only | $Q_1$ only | Yes |</span>
+<span id="cb11-262"><a href="#cb11-262" aria-hidden="true" tabindex="-1"></a>| Neither | Anything | Not guaranteed |</span>
+<span id="cb11-263"><a href="#cb11-263" aria-hidden="true" tabindex="-1"></a></span>
+<span id="cb11-264"><a href="#cb11-264" aria-hidden="true" tabindex="-1"></a></span>
+<span id="cb11-265"><a href="#cb11-265" aria-hidden="true" tabindex="-1"></a><span class="fu"># Scaling to T time points</span></span>
+<span id="cb11-266"><a href="#cb11-266" aria-hidden="true" tabindex="-1"></a></span>
+<span id="cb11-267"><a href="#cb11-267" aria-hidden="true" tabindex="-1"></a>With $T$ time points, the same pattern applies:</span>
+<span id="cb11-268"><a href="#cb11-268" aria-hidden="true" tabindex="-1"></a></span>
+<span id="cb11-269"><a href="#cb11-269" aria-hidden="true" tabindex="-1"></a><span class="ss">1. </span>Estimate $\hat{g}_t$ for $t = 1, \ldots, T$.</span>
+<span id="cb11-270"><a href="#cb11-270" aria-hidden="true" tabindex="-1"></a><span class="ss">2. </span>Start at time $T$: fit $\hat{Q}_T$, target with $H_T$.</span>
+<span id="cb11-271"><a href="#cb11-271" aria-hidden="true" tabindex="-1"></a><span class="ss">3. </span>Move to $T-1$: fit $\hat{Q}_{T-1}$ using targeted $\hat{Q}_T^*$ as outcome, target with $H_{T-1}$.</span>
+<span id="cb11-272"><a href="#cb11-272" aria-hidden="true" tabindex="-1"></a><span class="ss">4. </span>Repeat until $\hat{Q}_1^*$.</span>
+<span id="cb11-273"><a href="#cb11-273" aria-hidden="true" tabindex="-1"></a><span class="ss">5. </span>Final estimate: $\hat{\psi} = \frac{1}{n}\sum_i \hat{Q}_1^*(a_1, W_i)$.</span>
+<span id="cb11-274"><a href="#cb11-274" aria-hidden="true" tabindex="-1"></a></span>
+<span id="cb11-275"><a href="#cb11-275" aria-hidden="true" tabindex="-1"></a>Each backwards step conditions on $L_t$ where it confounds future treatment, and integrates it out where it mediates past treatment.</span>
+<span id="cb11-276"><a href="#cb11-276" aria-hidden="true" tabindex="-1"></a></span>
+<span id="cb11-277"><a href="#cb11-277" aria-hidden="true" tabindex="-1"></a></span>
+<span id="cb11-278"><a href="#cb11-278" aria-hidden="true" tabindex="-1"></a><span class="fu">## Sources</span></span>
+<span id="cb11-279"><a href="#cb11-279" aria-hidden="true" tabindex="-1"></a></span>
+<span id="cb11-280"><a href="#cb11-280" aria-hidden="true" tabindex="-1"></a><span class="ss">- </span>Petersen ML, Schwab J, Gruber S, et al. (2014). Targeted maximum likelihood estimation for dynamic and static longitudinal marginal structural working models. *J Causal Inference* 2(2):147-185.</span>
+<span id="cb11-281"><a href="#cb11-281" aria-hidden="true" tabindex="-1"></a><span class="ss">- </span>van der Laan MJ, Gruber S (2012). Targeted minimum loss based estimation of causal effects of multiple time point interventions. *Int J Biostat* 8(1):Article 9.</span>
+<span id="cb11-282"><a href="#cb11-282" aria-hidden="true" tabindex="-1"></a><span class="ss">- </span>Lendle SD, Schwab J, Petersen ML, van der Laan MJ (2017). ltmle: An R package implementing targeted minimum loss-based estimation for longitudinal data. *J Stat Softw* 81(1):1-21.</span>
 </code><button title="Copy to Clipboard" class="code-copy-button" data-in-quarto-modal=""><i class="bi"></i></button></pre></div>
 </div></div></div></div></div>
 </div> <!-- /content -->
